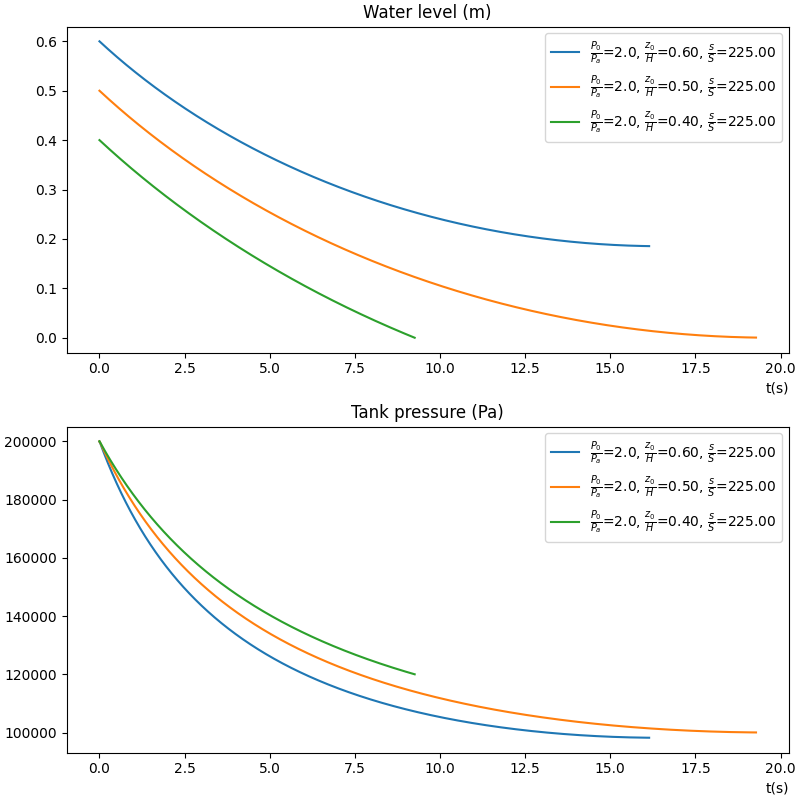
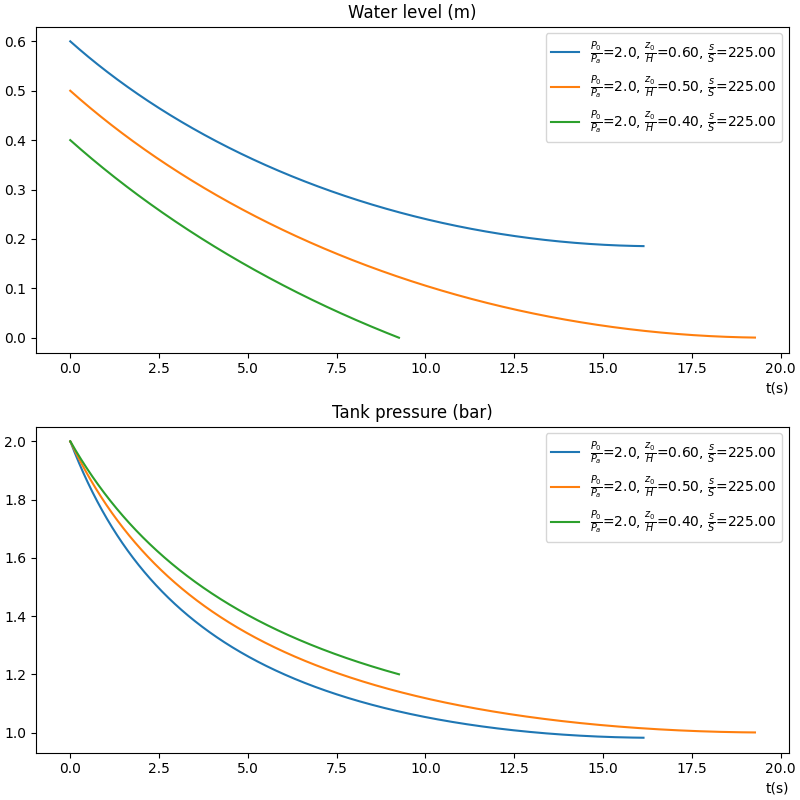
pressure in bar

diff --git a/main.py b/main.py
@@ -37,14 +37,14 @@ def stop(z, f, tank, ic):
 def euler(dt, tank, ic):
     z = [ic.z0]
     v = [abs(F(ic.z0, tank, ic) * tank.S / tank.s)]
-    p = [pressure(z[0], tank, ic)]
+    p = [pressure(z[0], tank, ic) / Pa]
     stop_now, reason = stop(z[0], v[0], tank, ic)
     while not stop_now:
         zn = z[-1]
         f = F(zn, tank, ic)
         z.append(zn + dt * f)
         v.append(abs(f * tank.S / tank.s))
-        p.append(pressure(zn, tank, ic))
+        p.append(pressure(zn, tank, ic) / Pa)
         stop_now, reason = stop(zn, f, tank, ic)
     print("Simulation stopped because", reason)
     return z, v, p
@@ -81,7 +81,7 @@ if __name__ == "__main__":
     plot(p2, tank, ic2, p_ax)
     w_ax.set_title("Water level (m)")
     w_ax.set_xlabel("t(s)", loc="right")
-    p_ax.set_title("Tank pressure (Pa)")
+    p_ax.set_title("Tank pressure (bar)")
     p_ax.set_xlabel("t(s)", loc="right")
 
     
